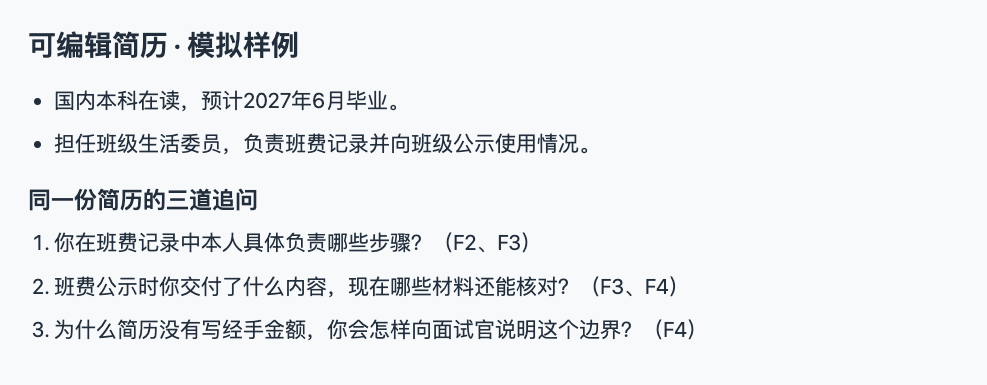
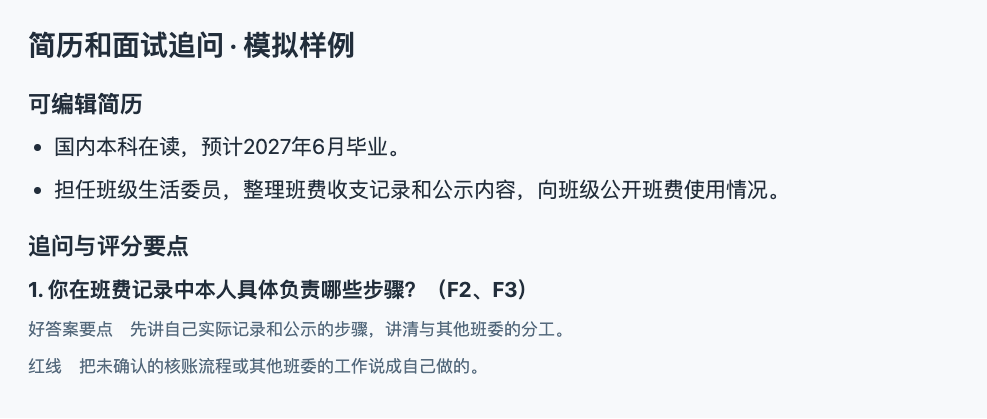
Refresh illustrated README and record regression baseline

Changed region(s): [[0.0304, 0.2182, 0.7903, 0.9039], [0.0304, 0.0623, 0.3647, 0.1558], [0.6079, 0.7169, 0.6991, 0.7792]]

diff --git a/tests/test_application_workflow.py b/tests/test_application_workflow.py
@@ -129,6 +129,13 @@ class ApplicationPacketTest(unittest.TestCase):
         self.assertIn("cv-support-01", packet)
         self.assertEqual(packet.count("（F2）"), 3)
 
+    def test_readme_packet_replays_from_the_published_fixture(self):
+        data = json.loads((ROOT / "examples/application.json").read_text(encoding="utf-8"))
+        now = datetime.fromisoformat("2026-11-09T16:00:00+08:00")
+        packet = render_packet(data, rank(data, now), "synthetic-general-beijing-2027", replay=True)
+        example = (ROOT / "examples/application.md").read_text(encoding="utf-8")
+        self.assertEqual(example.split("\n\n", 1)[1], packet)
+
     def test_hard_gap_stops_packet_even_when_resume_is_present(self):
         self.data["reviews"][0] = application("demo-001", state="gap")
         with self.assertRaisesRegex(ValueError, "停止生成定制投递包"):
@@ -165,7 +172,7 @@ class ApplicationPacketTest(unittest.TestCase):
              "fact_ids": [], "text": None},
         ]
         packet = render_packet(self.data, rank(self.data, NOW), "demo-001")
-        self.assertIn("均已确认，可投。任一不成立则不投", packet)
+        self.assertIn("全部硬门槛核实且满足，可投。任一不成立则不投", packet)
         self.assertEqual(next(line for line in packet.splitlines() if line.startswith("| 要求")).count("|"), 5)
         self.assertIn("## 软匹配", packet)
         self.assertIn("超出记录的字符上限", packet)

diff --git a/scripts/prepare_application.py b/scripts/prepare_application.py
@@ -237,12 +237,13 @@ def render_packet(data, ranked, job_id, replay=False):
     if replay or row["decision"] != "ready" or any(item["state"] != "done" for item in checklist):
         lines.append("**材料状态**　准备草稿，待核事项见下方清单。")
     if row["decision"] == "verify":
-        gates = ["具体岗位及入口仍有效", "全部硬门槛核实且满足"]
-        gates.extend(row["reasons"])
+        gates = ["官网与网申页确认该岗位仍开放", "全部硬门槛核实且满足"]
         if row["choice_pending"]:
             gates.append("本人已确认志愿与占用规则")
-        lines.append("**投递条件** 若" + "、".join(map(cell, gates))
-                     + "均已确认，可投。任一不成立则不投，待核期间只备料。")
+        lines.append("**投递条件** 若" + "，且".join(gates)
+                     + "，可投。任一不成立则不投，待核期间只备料。")
+        if row["reasons"]:
+            lines.append("**优先核对** " + "、".join(map(cell, row["reasons"])) + "。")
     if replay:
         lines.append("**历史回放**　当前开放状态仍需重新核验。")
     links = [

diff --git a/scripts/check_jobs.py b/scripts/check_jobs.py
@@ -188,9 +188,16 @@ def audit(records, now):
         else:
             excluded.append({"id": row["id"], "reason": result})
     deadlines = {row["id"]: deadline_clock(row["deadline"], now) for row in records}
+    expiry = {}
+    eligible_ids = {row["id"] for row in eligible}
+    for row in records:
+        if row["id"] in eligible_ids:
+            checked = parse_datetime(row["checked_at"])
+            next_day = (checked + timedelta(days=1)).replace(hour=0, minute=0, second=0, microsecond=0)
+            expiry[row["id"]] = min(checked + MAX_AGE, next_day).isoformat()
     return {
         "as_of": now.isoformat(), "eligible_by_record": eligible, "excluded": excluded,
-        "deadline_countdown": deadlines,
+        "deadline_countdown": deadlines, "verification_window_ends_at": expiry,
         "warnings": [row for row in excluded if row["reason"] in WARNINGS],
     }
 

diff --git a/tests/test_check_jobs.py b/tests/test_check_jobs.py
@@ -60,6 +60,8 @@ class CheckJobsTest(unittest.TestCase):
         with self.assertRaisesRegex(ValueError, "future"):
             audit([example(checked_at="2030-11-09T16:00:01+08:00")], NOW)
         self.assertEqual(self.reason(checked_at="2030-11-09T07:59:00+08:00"), "stale")
+        valid = audit([example(checked_at="2030-11-09T08:30:00+08:00")], NOW)
+        self.assertEqual(valid["verification_window_ends_at"]["demo-001"], "2030-11-09T16:30:00+08:00")
 
     def test_distinguishes_not_started_from_stale_observation(self):
         self.assertEqual(self.reason(opens_at="2030-11-10"), "not_started")

diff --git a/README.md b/README.md
@@ -1,14 +1,14 @@
 # 秋招求职助手
 
-给非技术岗应届求职者用的免费开源 Skill。它在 Agent 对话里完成岗位核验、筛选、简历改写、面试练习和投递跟踪。所有材料随源码开放，无需付费、激活或登录专用工作台。
+给非技术岗应届求职者用的免费开源 Skill。它在 Agent 对话里完成岗位核验、投递排序、简历与网申字段准备、笔面试练习、Offer 比较和投递跟踪。所有材料随源码开放，无需付费、激活或登录专用工作台。
 
 发一个岗位链接和一到两段真实经历，即可开始准备一份针对该岗位的投递包。适合运营市场、银行与综合职能、人力行政和项目支持等方向。
 
-[下载 v1.1.1 测试版 ZIP](https://github.com/isook527/campus-recruiting-skill/releases/download/v1.1.1/campus-recruiting-skill-v1.1.1.zip) · [版本记录](https://github.com/isook527/campus-recruiting-skill/releases)
+[GitHub 下载与校验文件](https://github.com/isook527/campus-recruiting-skill/releases) · [版本记录](CHANGELOG.md)
 
 ## 三步开始
 
-1. 下载上方 ZIP 并解压，确认 `campus-recruiting-skill/` 下面直接包含 `SKILL.md`。从 Git 克隆的读者可以使用默认分支。
+1. 在 Releases 选择所需版本，下载 Skill ZIP 并解压，确认 `campus-recruiting-skill/` 下面直接包含 `SKILL.md`。从 Git 克隆的读者可以使用默认分支。
 2. 把整个文件夹放进对应的 Skills 目录。Codex 使用 `~/.codex/skills/`，Claude Code 使用 `~/.claude/skills/`。装过旧版时，先备份旧 Skill 目录，再替换整份文件夹。个人投递记录放在单独的本地目录。
 3. 重新打开工具。在 Codex 对话输入 `$campus-recruiting-skill`。也可以直接让 Agent 读取 [SKILL.md](SKILL.md) 并按里面的流程处理。询问已安装版本时，Skill 会读取 `metadata.version`。
 
@@ -22,15 +22,15 @@
 
 ### 先判断要不要投
 
-候选人符合已给出的届次和学历要求，六级或同等外语证明待确认，网申也未核实。结果停在「补核后再决定」。岗位偏好和硬性资格各自列出。
+候选人符合已给出的届次和学历要求，六级或同等外语证明待确认，网申也未核实。若官网和网申页确认岗位开放，且能提供符合公告的外语证明和其他硬性资格，可以投。任一条件不成立时跳过，仍待核时只备料。
 
 ![岗位判断示例。网申状态与英语要求待核，班费记录列为可迁移经验](docs/images/job-check.png)
 
 ### 给一版可编辑的投递包
 
-简历沿用班费记录和公示这两个已知事实。完整投递包附每条改写依据、投递前检查和三道面试追问。
+简历沿用班费记录和公示这两个已知事实。完整投递包附网申字段稿、改写依据、投递前检查和三道带评分要点的追问。可直接打开[完整示例笔记](examples/application.md)。
 
-![简历片段与从本版简历生成的三道面试追问](docs/images/application-packet.png)
+![简历片段与一题追问的评分要点及红线](docs/images/application-packet.png)
 
 ### 同题练两轮
 
@@ -58,23 +58,34 @@
 | 清理旧表 | 帮我把这份秋招表分成当前可投、未开始、明确结束和待核。只在结果表排除失效记录，保留我的原文件。 |
 | 判断值不值得投 | 这两个岗位帮我排一下。分开写硬性条件、优先项和本人经历。缺什么信息就告诉我先核哪一条。 |
 | 做一份投递包 | 这是一份 JD 和我的两段经历。给我一版能编辑的简历、每条改写依据、附件检查和三道追问。 |
+| 笔试练习 | 帮我按当期银行笔试通知做一次限时练习，结束后按知识、审题和时间复盘。 |
 | 模拟面试 | 我想投银行综合岗。一次问一题，根据我的回答追问。用同一套标准给我两轮练习反馈。 |
 | 做岗位实操 | 给我一道人力行政排期题，等我交卷再逐项评分。 |
+| 比较 Offer 和签三方 | 我在比较两份 Offer。按到手成本、成长、城市和签约条件拆开，给我向 HR 核对的问题。 |
 | 继续上次投递 | 读取我选的本地投递记录，找出本周最早到期的行动，按实际反馈帮我复盘。 |
 
 ## 内容
 
 - [查岗、核验与去重](references/job-verification.md) · [官方来源导航](references/official-sources.md)
-- [岗位判断、排序与投递包](references/application-packet.md)
+- [投递优先级](references/application-prioritization.md) · [投递包和网申字段稿](references/application-packet.md) · [互联网、央国企、银行与快消流程](references/industry-processes.md)
 - [七天求职行动](references/action-guide.md) · [投递前检查与防骗](references/application-safety.md) · [本地行动表](templates/local-tracking.md)
 - [12 个模拟经历案例](references/cases/index.md) · [简历证据卡、三份示范与一分钟自我介绍](references/resume-and-evidence.md) · [三类可编辑简历](templates/resume.md)
 - [20 道面试题与 12 条追问](references/interview.md) · [模拟面试评分](references/interview-coaching.md) · [三个方向的实操题](references/practice.md)
-- [本地投递记录和每周复盘](references/application-log.md)
+- [笔试与测评](references/assessments.md) · [公司调研卡](references/company-research.md) · [Offer 比较](references/offer-decision.md) · [签约、背调与体检](references/signing.md)
+- [本地投递记录和每周复盘](references/application-log.md) · [22 条评估用例](evals/README.md)
 
-实时机会每次重新查验。来源导航只用于起步，历史线索、已经关闭的公告和待核岗位不混入实时结果。招聘方原文与站点遵循各自权利，仓库整理的是自有案例、模板、核验方法和必要链接。
+## 适用范围
 
-维护时运行 `python3 -m unittest discover -s tests -v`。测试覆盖岗位核验、投递包的事实引用、跨进程恢复和重复写入。个人记录保存在用户选定的本地文件中。
+适用于中国校园招聘中的非技术岗。国考、省考、选调和事业单位公开招聘按对应主管机关的当期公告查询。实时机会每次重新查验。来源导航只用于起步，历史线索、已经关闭的公告和待核岗位不混入实时结果。招聘方原文与站点遵循各自权利，仓库整理的是自有案例、模板、核验方法和必要链接。
+
+招聘信息可能更新或遗漏，录用由招聘方决定。材料供求职准备与核对，资格、安排和签约条款以当期公告及书面文件为准。本人负责登录、填写敏感字段、投递和签约。
+
+## 自检
+
+维护时运行 `python3 -m unittest discover -s tests -v`。测试覆盖岗位核验、投递包的事实引用、跨进程恢复和重复写入。个人记录保存在用户选定的本地文件中。运行 `python3 scripts/check_sources.py` 可查看哪些导航入口需重新核对。
 
 命令行写入投递记录时，先把事件写进 JSON 文件，再运行 `python3 scripts/application_log.py 本地记录.sqlite3 record 事件.json`。可用 `record --help` 查看参数。岗位校验和投递包输入格式可查[岗位字段](references/job-verification.md#结构化核验记录)和[事实字段](references/application-packet.md#生成-markdown-和排序)。
+
+发布资产旁提供 SHA-256 校验文件。下载两份文件到同一目录后，可用 `shasum -a 256 -c SHA256SUMS` 校验。
 
 本仓库的自有内容和代码按 [MIT License](LICENSE) 提供。

diff --git a/SKILL.md b/SKILL.md
@@ -15,7 +15,7 @@ metadata:
 
 ## 按任务读取资料
 
-- **找岗位、核岗位、清旧表**：读 [岗位核验](references/job-verification.md) 和 [官方入口](references/official-sources.md)。只把本次查到官网和投递证据的项目或岗位放进相应推荐区。用户要判断是否值得投或比较多个岗位时，继续使用[投递优先级](references/application-prioritization.md)，先判断硬门槛，再排本周行动。
+- **找岗位、核岗位、清旧表**：读 [岗位核验](references/job-verification.md) 和 [官方入口](references/official-sources.md)。读取入口时核对 `last_verified`，有 Python 时用 `python3 scripts/check_sources.py` 标出需复核的入口。只把本次查到官网和投递证据的项目或岗位放进相应推荐区。用户要判断是否值得投或比较多个岗位时，继续使用[投递优先级](references/application-prioritization.md)，先判断硬门槛，再排本周行动。
 - **准备一次投递**：先收一个具体岗位链接或 JD，加上一到两段本人经历。按[岗位判断与投递包](references/application-packet.md)核对硬门槛、整理经历事实，生成可编辑简历、网申表单字段稿、改写依据、附件清单和三道追问。确认硬门槛不满足就停止该岗位的定制。缺关键资料时先给带待核标记的草稿，只问会改变结论的缺口。无法联网时可以处理用户贴出的 JD，网申状态保持待核。
 - **从零开始**：读 [求职流程与行动](references/action-guide.md)。如果条件没给全，先用已知条件做一次宽搜索，再列会改变结果的毕业年月、城市和岗位方向。默认聚焦非技术岗，按秋招、春招、补录、实习分组。按[行业流程](references/industry-processes.md)核对当期流程和用人主体。
 - **改简历、整理证据、练自我介绍**：读 [简历与证据](references/resume-and-evidence.md)，选一个 [相似经历](references/cases/index.md) 和一个 [可编辑简历模板](templates/resume.md)。拆出 JD 的三项核心任务，再用事实卡匹配。给可直接修改的保守版，数字和结果仅在用户能说明依据时加入。

diff --git a/evals/results.md b/evals/results.md
@@ -1,0 +1,22 @@
+# v1.1.1 与 v1.2.0 比较
+
+使用相同的 22 条标准化用例和评分标准。v1.1.1 基线来自冻结提交 `0efa3e6`。行为评估为 2026-11-09 在 Codex 中进行的离线模拟，每个版本每例一次，由执行者对照必需项和禁止项人工判定。两位执行者分测两组，用例两轮保持同一分工。脚本单测另计。
+
+| 版本 | 行为用例通过 | 未通过编号 |
+| --- | --- | --- |
+| v1.1.1 | 15/22 | 9、16、17、18、19、20、21 |
+| v1.2.0 | 22/22 | 无 |
+
+| 用例 | 基线缺口 | 候选版表现 |
+| --- | --- | --- |
+| 9 | 官方截止冲突时仍按较早日期建议投递 | 同时保留两条出处，较早时间用于备料，核清后才提交 |
+| 16 | 自带内容实操套不上投放数据题的量表 | 按读者、表达、行动号召和验证指标评分，没看到正文的项保留待评 |
+| 17 | Offer 比较缺行业周期、转正和退出条件 | 展开固定与浮动收入、成长、城市成本、行业风险及签约条件 |
+| 18 | 三方签约核对缺试用、违约、服务期和档案 | 给出可直接询问 HR 的条款清单及复核渠道 |
+| 19 | 未明确省考分流及官方入口类型 | 指向省级公务员主管部门或考试机构的当期公告 |
+| 20 | 只做投递复盘，遗漏对极端表述的回应 | 先简短回应，再关心眼下安全，给一个可做的小动作 |
+| 21 | 滚动岗未单独排期，缺准备成本和每周动作 | 将临近截止与滚动录用分别安排，硬性不符退出，待核写明解锁条件 |
+
+原始建议中的生源地样例按明确的「或」判定单项资格。官方时间冲突的样例用较早时间安排确认和备料。完整身份证和手机号示例替换为占位符，格式识别由脚本单测用构造数据验证。两轮均按调整后的标准核对。
+
+第 14 例另用合成 SQLite 记录实际执行跨进程读取，并测试不存在的路径。评估范围为离线行为及本地脚本，不包含真实网申、录用、重复采样后的稳定性或其他 Agent 平台的自动触发。

diff --git a/evals/README.md b/evals/README.md
@@ -1,0 +1,29 @@
+# 行为评估
+
+[22 条用例](cases.json)覆盖岗位核验、资格、真实经历、投递边界、防骗、隐私、笔面试与实操、Offer、签约、互斥志愿和求职沟通。岗位与人物均为模拟。
+
+## 复测
+
+1. 在干净会话中加载待测 Skill，把同一用例的 `prompt` 发给 Agent。记录版本、模型、日期及工具是否可用。虚构链接按模拟证据处理。
+2. 对照 `must` 和 `must_not` 逐项核对。必须项全满足且无禁止项才算通过。记录具体缺失、触发的禁止项和回答摘录。
+3. 比较版本时用同一题面、工具条件和评分规则。需要评估稳定性时，每例至少独立重复三次，按实际结果报告。
+
+第 14 例可在临时目录准备合成记录。以下命令在仓库根目录运行。
+
+```bash
+trial_dir="$(mktemp -d)"
+mkdir "$trial_dir/records"
+python3 scripts/application_log.py "$trial_dir/records/log.db" record evals/fixtures/interview-event.json
+```
+
+在该目录使用此库复测，再用一个不存在的路径验证读取失败的分支。第 13 例使用占位符测试 Agent 的处理方式，证件号与手机号的实际格式拦截由脚本单测覆盖。
+
+## 脚本回归
+
+```bash
+python3 -m unittest discover -s tests -v
+python3 scripts/check_sources.py
+python3 scripts/prepare_application.py examples/application.json --as-of 2026-11-09T16:00:00+08:00 --job synthetic-general-beijing-2027
+```
+
+脚本测试与行为评估分别报告。历史回放用于复现示例，其中的时间不代表当前招聘状态。详见[版本比较](results.md)。

diff --git a/references/job-verification.md b/references/job-verification.md
@@ -44,4 +44,4 @@
 
 新记录增加 `source_type`。用 `employer` 标注招聘方原始来源，`authorized_ats` 标注沿官方链路确认授权的网申系统，`public_authority` 标注主管机构发布的当期公告。仅有转发或聚合信息用 `third_party`，无法判定用 `unknown`。后两种只留线索。旧记录缺此字段时仍按原有证据规则读取，投递前需按当前流程复核。两个同级官方来源冲突且尚未找到明确更正时，保留原文和时间，填写 `official_conflict: true`。
 
-脚本沿用北京时间同日且最长 8 小时的岗位核验窗口。结果的 `deadline_countdown` 对精确截止给秒数，对只有日期的截止给日历日差，未知截止保留未知。倒计时按记录里的时间计算，最终以复核后的官方公告为准。默认退出码为 0（完成校验）或 2（输入错误），传入 `--warn-exit` 时，待核、过时、冲突等警告会输出完整报告并返回 1。
+脚本沿用北京时间同日且最长 8 小时的岗位核验窗口。仍有效的记录在 `verification_window_ends_at` 给出本次核验窗口的最晚边界。结果的 `deadline_countdown` 对精确截止给秒数，对只有日期的截止给日历日差，未知截止保留未知。倒计时按记录里的时间计算，最终以复核后的官方公告为准。默认退出码为 0（完成校验）或 2（输入错误），传入 `--warn-exit` 时，待核、过时、冲突等警告会输出完整报告并返回 1。

diff --git a/CHANGELOG.md b/CHANGELOG.md
@@ -1,0 +1,23 @@
+# 变更记录
+
+## 1.2.0
+
+- 扩展春招、补录、笔试测评、Offer、三方协议及入职前核对的任务入口。
+- 用硬门槛、来源、时间、匹配和准备成本安排投递，处理限报、志愿锁定和滚动录用。
+- 补上行业流程、公司调研卡、网申字段稿、简历三层追问和更易读的合成投递包。
+- 加强官方域名、招聘主体、个人信息及收费风险核验。
+- 校验器增加来源类型、官方冲突、倒计时与警告退出码。岗位同日、最长 8 小时的核验窗口继续适用。
+- 增加官方入口日期检查及投递记录的敏感信息检查、迁移、导出和备份。
+- 加入 22 条行为评估和脚本回归测试。
+
+## 1.1.1
+
+- 在 Skill 内声明版本，细化字段错误及事件 JSON 文件用法，在 README 演示五种实际输出。
+
+## 1.1.0
+
+- 加入结构化岗位评估、证据来源与关系、一岗一份投递包、面试及实操评分和本地复盘。
+
+## 1.0.0
+
+- 发布岗位核验、简历和投递安全工作流。

diff --git a/examples/application.md b/examples/application.md
@@ -6,7 +6,8 @@
 **截止** 未公布　**记录时间** 2026-11-09T15:00:00+08:00
 **简历版本** `cv-general-01`
 **材料状态**　准备草稿，待核事项见下方清单。
-**投递条件** 若具体岗位及入口仍有效、全部硬门槛核实且满足、六级425分或同等外语能力均已确认，可投。任一不成立则不投，待核期间只备料。
+**投递条件** 若官网与网申页确认该岗位仍开放，且全部硬门槛核实且满足，可投。任一不成立则不投，待核期间只备料。
+**优先核对** 六级425分或同等外语能力。
 **历史回放**　当前开放状态仍需重新核验。
 公告中的硬性条件还未核对完整。
 
